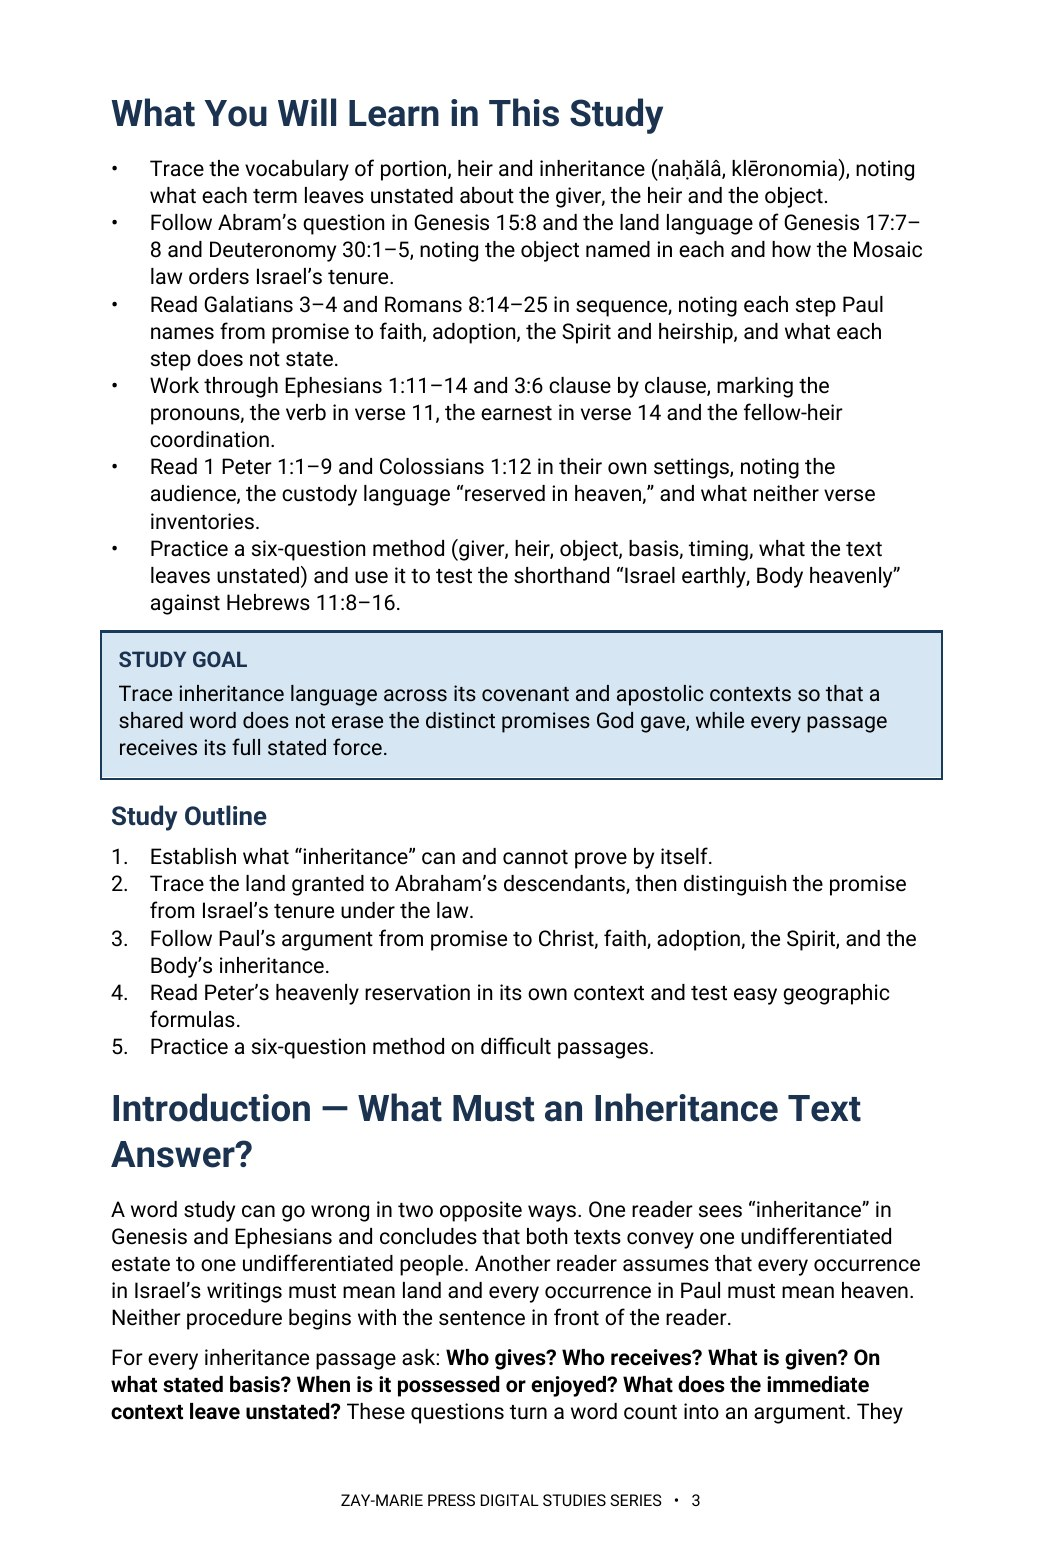
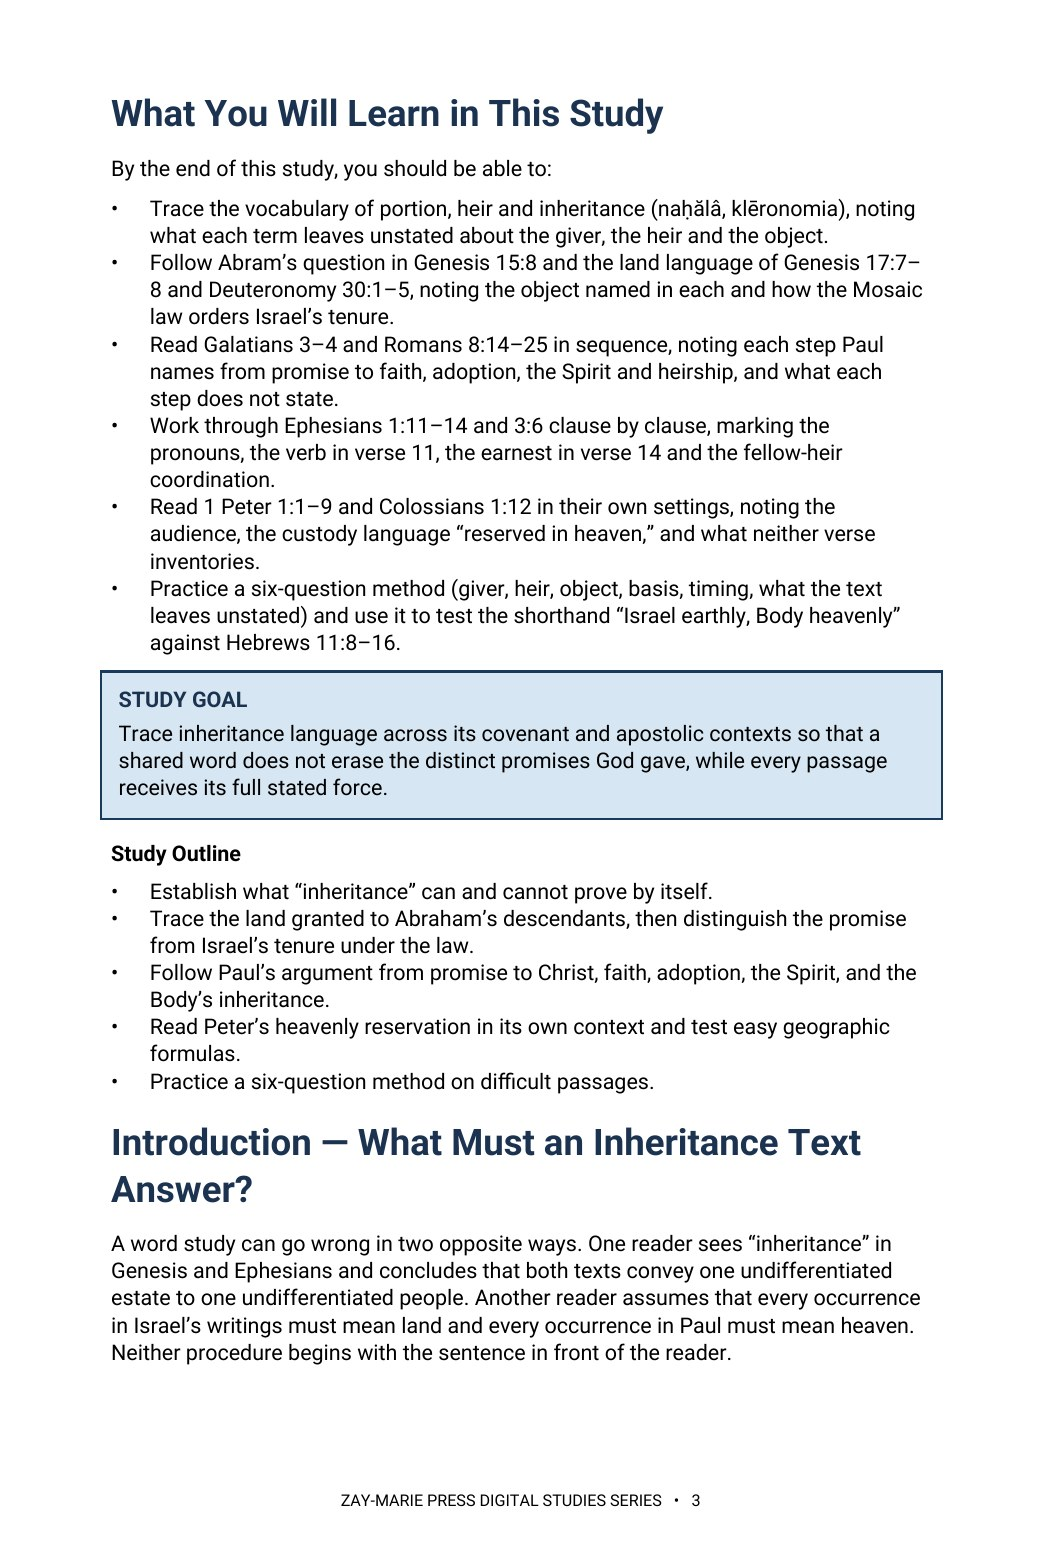
Study 56: lead-in, Study Outline bullets, Teaching Outline as real numbered list; previews re-rendered
Claude-Session: https://claude.ai/code/session_01HC7bs9KYP2scp4hCL6DkTp

Changed region(s): [[0.0922, 0.0922, 0.9222, 0.9219]]

diff --git a/build-tools/studies/b56/ed56r.py b/build-tools/studies/b56/ed56r.py
@@ -1,0 +1,23 @@
+from edcommon import *
+import re
+def rm_num(segs,pat):
+    s=[list(x) for x in segs]
+    if re.fullmatch(pat+r'\t',s[0][0]): s=s[1:]
+    else: s[0][0]=re.sub(r'^'+pat+r'\s+','',s[0][0])
+    return s
+def apply(els):
+    assert T(els[0])=='What You Will Learn in This Study'
+    rep(els,'according to promise (3:29); The seed is prophetic fulfillment','according to promise (3:29). The seed is prophetic fulfillment')
+    els.insert(1,mk('body',[['By the end of this study, you should be able to:',False,False]]))
+    a=[k for k,e in enumerate(els) if P(e) and T(e)=='Study Outline'][0]; k=a+1; n=0
+    while els[k]['kind']=='num':
+        els[k]['kind']='bul'; k+=1; n+=1
+    assert n==5,n
+    ta=[k for k,e in enumerate(els) if P(e) and e['kind']=='h1' and T(e)=='Teaching Outline'][0]; k=ta+1; ng=0
+    while els[k]['kind']=='body' and re.match(r'^[IVX]+\.',T(els[k])):
+        els[k]=mk('bul',rm_num(els[k]['segs'],r'[IVX]+\.')); k+=1; ng+=1
+    assert ng==5,ng
+    for e in els:
+        if P(e): assert not re.match(r'^(•|[IVX]+\.\t)',T(e))
+    number_outline(els)
+    return els

diff --git a/CLAUDE.md b/CLAUDE.md
@@ -26,7 +26,7 @@ These are kept in the repo at `controlling-documents/` and are the current versi
 - **`build-tools/`** — the study rebuild toolkit (scripts, per-study edit files, README), committed 2026-10-04 at the publisher's approval so the retrofit method and every per-study wording edit survive a session reset. Working tools only; the site does not use them. Not a rule.
 **`controlling-documents/Digital_Studies_Relationship_Map_v1.39.md`** — records each study's distinct subject, its related studies, the eight priced six-study collections, the Paul's Missionary Journeys cross-reference map, and the five primary catalog categories (currently version 1.39, covers Studies 1–71; update it as new studies publish, bump the version number, rename the file to match, and log the change in its own version-history table — mirroring the Master Standard's `_vX.Y` filename convention). Check a proposed topic against it before recommending or writing a new study. (2026-09-28: the file was missing from this repo despite this note referencing it; replaced from the publisher's copy and bumped v1.15→v1.25 in the same pass. If this note ever again points to a version not present under `controlling-documents/`, ask the publisher for a copy rather than proceeding without the check.)
 - **`controlling-documents/Digital_Studies_Category_Standard_v1.1.md`** — FINAL and binding (publisher, 2026-10-01): the rules for the five primary catalog categories (Foundations, Israel & Prophecy, Body of Christ, Passages, Doctrinal Themes), the ordered decision procedure for new studies, the precedents, all 71 fixed assignments, and the cover-label form for each category. Read it before placing any card or cover label. Do not ask the publisher where a study belongs; apply the procedure and state the result. Only the publisher changes a ruling; then bump this Standard's version and filename, re-letter the cover, and update the Relationship Map.
-- **`controlling-documents/Doctrinal_Upgrade_Retrofit_Plan_v1.147.md`** — working tracker for retrofitting Studies 1–59 to the 2026-10-02 doctrinal upgrade (Framework/PAM v1.1, Master Standard v1.40, Rules 7–17): withdrawn-wording search keys, impact tiers, waves and the per-study method. Read it before continuing the retrofit in any session; update status, bump the version and rename the file as work proceeds.
+- **`controlling-documents/Doctrinal_Upgrade_Retrofit_Plan_v1.148.md`** — working tracker for retrofitting Studies 1–59 to the 2026-10-02 doctrinal upgrade (Framework/PAM v1.1, Master Standard v1.40, Rules 7–17): withdrawn-wording search keys, impact tiers, waves and the per-study method. Read it before continuing the retrofit in any session; update status, bump the version and rename the file as work proceeds.
 - **`controlling-documents/Doctrinal_Packet_Standard_v0.3.md`** — Doctrinal Packet Standard (DRAFT; §7 approved). Governs the separate Doctrinal Packets product strand (5-page interpretive PDFs per Bible book — a print-friendly cover as page 1 plus 4 content pages, $2.99, KJV, pilot: Genesis, live at `packet-genesis.html`, hub `doctrinal-packets.html`; site pages say "5 Pages", cover styles live in `packets.css`, Old Testament blue and New Testament soft pale green, hub listed in Bible order). **Preview rule (publisher directive, 2026-09-29, packets only):** previews show about one page's worth in two cropped views (top of page 1 through the anchor texts; the chart section) — never the exegesis, architecture, Mystery contrast, logic chain, outline, or closing. Master Standard §16/§17 still govern Digital Studies. Bump the version and rename the file as the Standard is finalized.
 - **`controlling-documents/Preview_Page_Spoiler_Retrofit_Audit_v1.4.md`** — working tracker for the Studies 1–60 preview-page conclusion-spoiler retrofit (see the section below). Read it before continuing that audit in any session; update its status fields and changelog, bump the version, and rename the file to match as the audit proceeds — same `_vX.Y` convention as the other controlling documents. As of v1.1, the website-side half was DONE: all 60 studies' "What You'll Study" text was judged against the rule (methodology documented in the file) and 22 points across 11 studies were rewritten and pushed; an unrelated Study 22 content bug (Study 21's content had leaked into it) was also found and fixed. As of v1.2, the publisher supplied Studies 1–60's interior production PDFs and the interior-PDF half was also surveyed (read-only): 10 studies (37, 41, 45, 47, 48, 49, 51, 52, 53, 54) were found to have at least one interior "What You Will Learn" violation, 50 studies were confirmed compliant, and the orphaned `assets/study-45-sanctification-under-grace.docx` (removed from the repo per the publisher in v1.0) was confirmed word-for-word identical to Study 45's actual production interior PDF content. As of v1.3, the publisher supplied editable DOCX sources for all 10 violating studies; all 15 violating points were rewritten and approved, delivered as corrected final PDFs, and — along the way — a second defect was found and fixed (Studies 47 and 48's source DOCX still had an unintegrated cover placeholder despite both being long-published live with real covers; fixed by inserting the existing approved cover art). The website's "What You Will Learn" preview image (`study-NN-page-3.jpg`) was regenerated from the corrected content for all 10 studies and pushed to `main` (commit `cea1859`), verified against a fresh clone. **The website side of this audit is now fully compliant for all 60 studies.** Outstanding: the publisher's purchasable interior PDF files themselves have corrected versions delivered, but distribution to existing purchasers was decided by the publisher on 2026-09-29: silent swap of the files behind the existing downloads, no reissue notice (recorded in the v1.4 changelog entry; the product files are not in this repo).
 

diff --git a/controlling-documents/Digital_Studies_PAM_Audit_v1.242.md b/controlling-documents/Digital_Studies_PAM_Audit_v1.242.md
@@ -472,3 +472,4 @@ Study 15 PDF not yet supplied. Typography: none of Studies 2, 3, 6, 8 is in EB G
 - v1.239 addendum (2026-10-04): Study 57 Review and Discussion Questions converted from typed '1.<tab>' lines to a real numbered list with hanging indent (publisher caught the flush-left wrap).
 - v1.240 (2026-10-04): Review and Discussion Questions converted from typed numbers to a real numbered list with hanging indent in Studies 46, 49, 54, 55 (and 57 earlier). Study 46 drops from 23 to 22 pages (preview page 15 -> 14; site.js 46:22); 49, 54, 55 unchanged in length. Still typed: Studies 9, 35, 48, 58 (see Retrofit Plan v1.146). Study 60 sets Review questions as bullets (open question).
 - v1.241 (2026-10-04): hanging-indent fix completed for Studies 9 and 48 (typed Review numbering -> real numbered list; lengths unchanged at 15 and 20 pages; Study 9 preview page 2 re-rendered) and confirmed for 35 (build already hanging, 22 pages). Build tool edcommon.number_outline now converts typed Review numbers for every future build. Still open: Study 58 (typed numbering and missing v1.51 imprint); Study 60 uses bullets for Review questions.
+- v1.242 (2026-10-04): Study 56 rebuilt at 20 pages: lead-in added to What You Will Learn, Study Outline set as bullets, Teaching Outline typed Roman numerals converted to a real numbered list with hanging indent, Galatians 3 sentence separated from the preceding clause; v1.51 imprint already present; no other doctrine changes (see Retrofit Plan v1.148).

diff --git a/controlling-documents/Doctrinal_Upgrade_Retrofit_Plan_v1.148.md b/controlling-documents/Doctrinal_Upgrade_Retrofit_Plan_v1.148.md
@@ -248,3 +248,4 @@ Working tracker for correcting published studies to the Framework/PAM v1.1, Mast
 - v1.145 (2026-10-04): Study 57 rebuilt at 20 pages (publisher approved 2026-10-04): v1.51 imprint; WYWL/Study Outline/Study Summary real bullets, lead-in, Teaching Outline numbered 1-7; doctrine already conforming. Previews 2, 3, 7 re-rendered; site.js unchanged (57:20).
 - v1.146 (2026-10-04): hanging-indent fix for typed Review numbering — done: 46 (now 22 pages), 49, 54, 55, 57; open: 9, 35, 48, 58 (58 also lacks the v1.51 imprint); Study 60 uses bullets for Review questions.
 - v1.147 (2026-10-04): Review-numbering fix done for 9, 46, 48, 49, 54, 55, 57 (35 build already correct); open: 58 (also needs v1.51 imprint); Study 60 Review set as bullets (publisher question).
+- v1.148 (2026-10-04): Study 56 rebuilt (20 pages, unchanged) for the typed-numbering defect; open in this list: 62, 63, 64 (Teaching Outline), 15, 29, 30, 58, and Study 60 (Review set as bullets).
